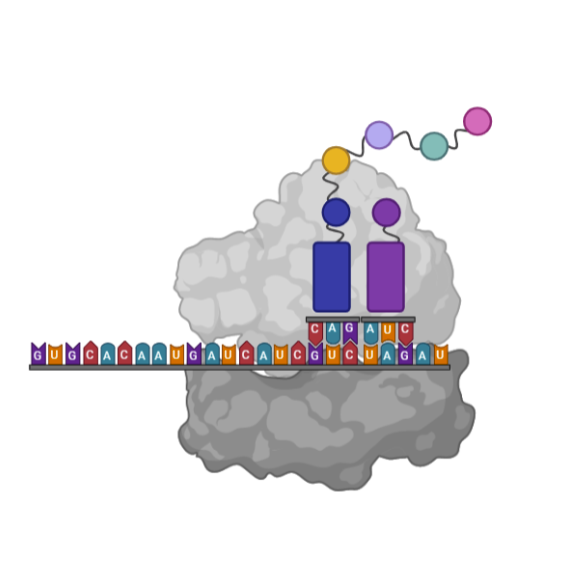
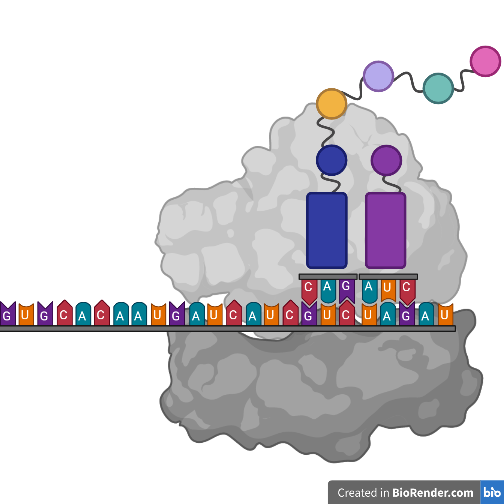
Updated Ribosome.py img
Added credits for image

Changed region(s): [[0.0, 0.119, 0.9821, 0.9226], [0.625, 0.9524, 1.0, 1.0], [0.9226, 0.0893, 1.0, 0.1786]]

diff --git a/index.html b/index.html
@@ -181,7 +181,7 @@ body, html {
 -->
 
     <div class="w3-col m3">
-      <img src="img/Ribosome.png" style="width:100%" onclick="onClick(this)" class="w3-hover-opacity" alt="Ribosmoe.py">
+      <img src="img/Ribosome.png" style="width:100%" onclick="onClick(this)" class="w3-hover-opacity" alt="Ribosmoe.py (img created with BioRender.com)">
     </div>
     <button class="w3-button w3-padding-large w3-light-grey w3-center" style="margin-top:64px"> <a href="https://github.com/mbuyd" >SEE ALL</a></button>
   </div>
